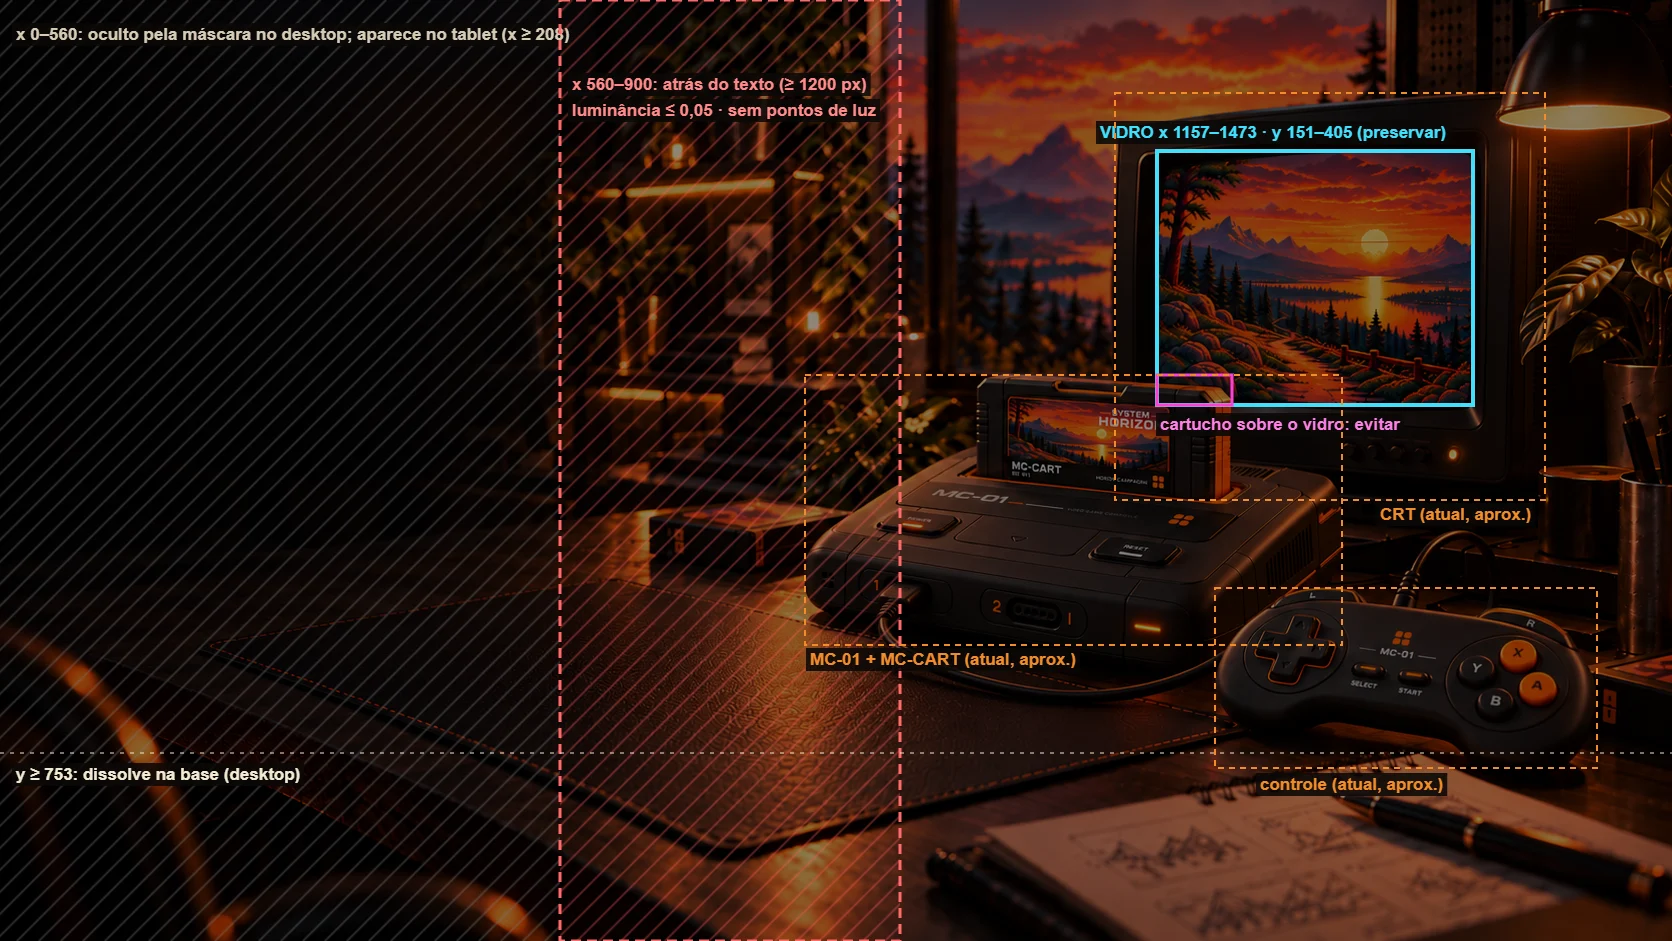
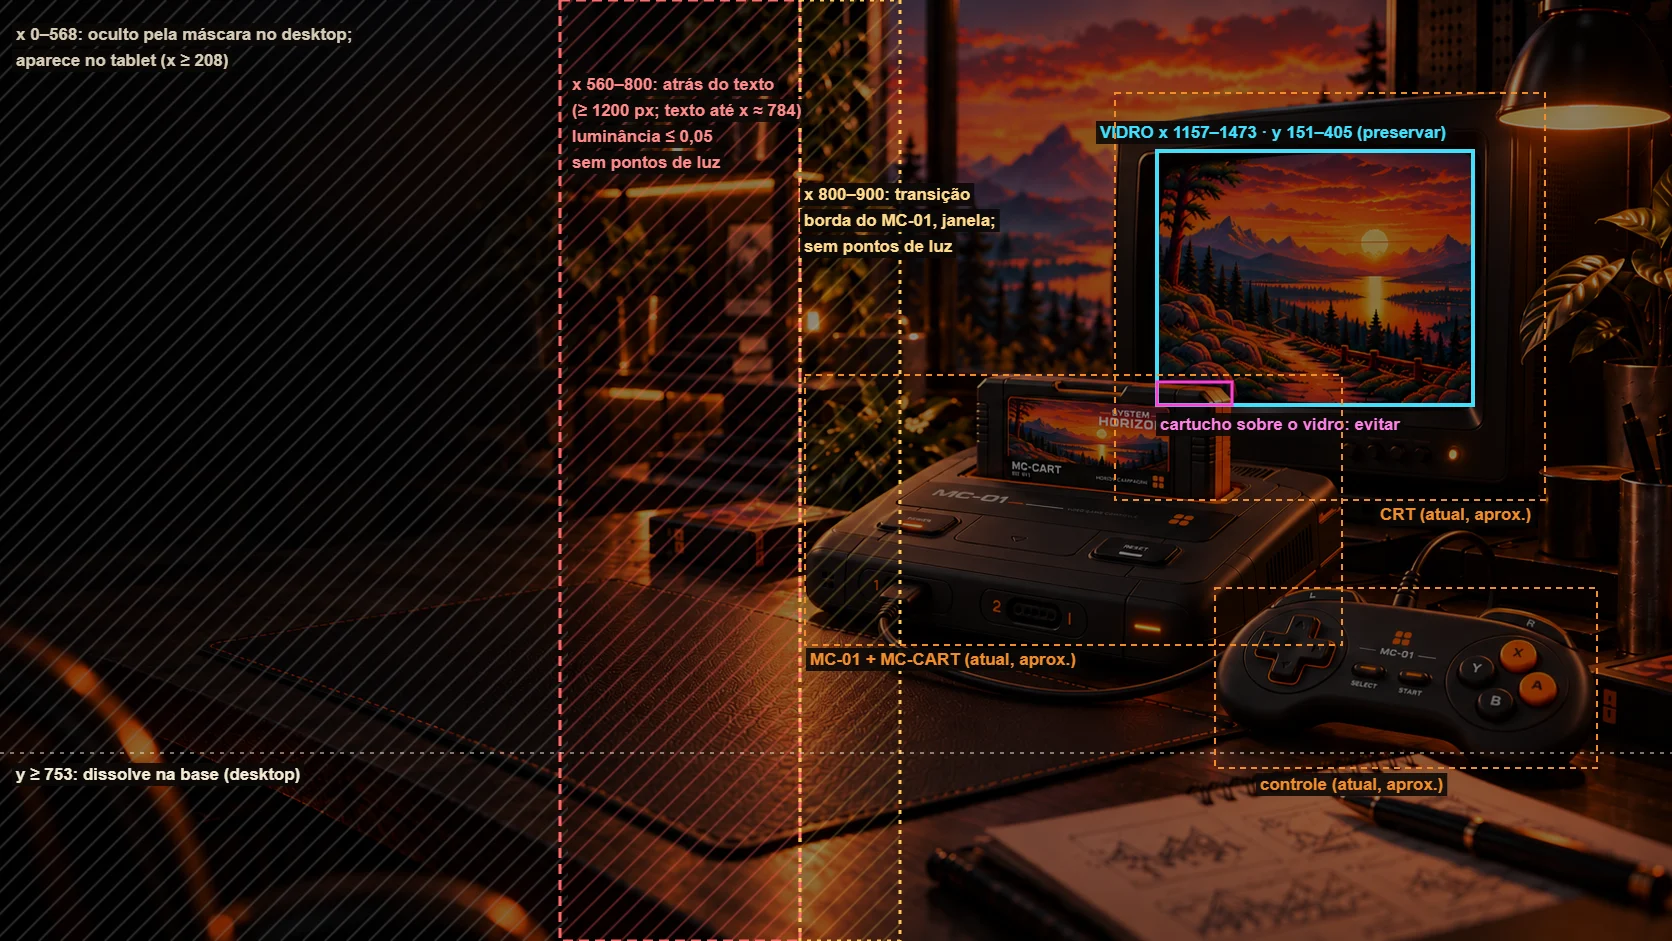
docs: address the D-079 review of the Hero image contract
- Dark zone narrowed to x 560-800 (visible text ends at x ~784); x 800-900
  is a transition that may hold the MC-01 edge and the window, so the
  contract no longer contradicts the composition. English brief updated.
- Glass aspect limited to 1.24-4:3 (the 4:3 teaser covers by height).
- Corrected numbers: right side ~6% taller, cartridge over the glass from
  y ~382, mask transparent to 568, 2x upscale figures, 1672:941 wording;
  generic mobile formula; vertical fade note; scanline metric stated.
- D-023 marked as partially superseded; roadmap performance figures.
- Deploy guard: every preload href in index.html must exist in the build.

diff --git a/docs/21-hero-refinement.md b/docs/21-hero-refinement.md
@@ -115,6 +115,8 @@ Todos medidos no build de produção, antes × depois.
 - **Problema:** com 120 linhas fixas, o período ficava em 0,9–2,3 px do dispositivo em DPR 1 e 1,25 (e em 390 até DPR 2). As linhas caíam entre os pixels e formavam faixas: batimento de 0,22–0,64 e escurecimento médio variando de 7 a 14.
 - **Correção:** faixas suaves alinhadas às 120 linhas nativas, com densidade de 120, 60, 40 ou 30 conforme a largura da tela e a densidade de pixels, para cada faixa ter ≥ 3 px do dispositivo. Engine, timings e roteiro intactos.
 - **Resultado:** batimento ≤ 0,05 (a maioria ≤ 0,014) e escurecimento uniforme (13,3–13,9) nas 16 combinações de 1440/1024/820/390 × DPR 1/1,25/2/3. O CRT do Inventory usa a mesma tela e também melhora (0,65 → ≤ 0,05), sem nenhuma mudança no Inventory.
+- **Métrica:** "batimento" é o coeficiente de variação do perfil vertical de escurecimento (faixa central da tela, com canvas e legendas ocultos), suavizado por uma gaussiana de σ = 1,5 período. Mede as faixas lentas (moiré); 0 = regular.
+- **Revisão independente:** com outra métrica (média móvel de 3 períodos, 10 larguras × DPR 1–3, Hero e Inventory), o pior caso caiu de 4,7 para 0,19. O resíduo fica perto do limiar de 3,0–3,15 px por faixa (1200 e 1280 em @1 e @2, 360 em @1 e @2) e é quase imperceptível no tamanho real. Se precisar de folga, o mínimo pode subir para ~3,5 px, com linhas mais grossas em parte do desktop.
 
 **Pixelify Sans**
 
@@ -172,21 +174,21 @@ Para quem vai produzir a arte. **A imagem atual não é substituída até a nova
 - **Objetos:** luminária no canto superior direito, plantas, porta-canetas, caderno no canto inferior direito e cadeira no canto inferior esquerdo.
 - **Ausentes:** teclado e mouse (D-067).
 
-| Elemento        | Caixa atual (aprox., 1×) | Tolerância                 |
-| --------------- | ------------------------ | -------------------------- |
-| Vidro do CRT    | x 1157–1473 · y 151–405  | ver G e K                  |
-| Gabinete do CRT | x 1115–1545 · y 93–500   | ±3% da largura da imagem   |
-| MC-01 + MC-CART | x 805–1342 · y 375–645   | ±3%                        |
-| Controle        | x 1215–1597 · y 588–768  | ±3%                        |
-| Luminária       | x 1495–1672 · y 0–130    | livre, sem invadir o vidro |
+| Elemento        | Caixa atual (aprox., 1×)                                                                 | Tolerância                 |
+| --------------- | ---------------------------------------------------------------------------------------- | -------------------------- |
+| Vidro do CRT    | x 1157–1473 · y 151–405                                                                  | ver G e K                  |
+| Gabinete do CRT | x 1115–1545 · y 93–500                                                                   | ±3% da largura da imagem   |
+| MC-01 + MC-CART | x 805–1342 · y 375–645 (topo do cartucho na lateral; sobre o vidro, a partir de y ≈ 382) | ±3%                        |
+| Controle        | x 1215–1597 · y 588–768                                                                  | ±3%                        |
+| Luminária       | x 1495–1672 · y 0–130                                                                    | livre, sem invadir o vidro |
 
 **Câmera:** na altura de quem está sentado, um pouco acima da mesa e olhando levemente para baixo. Lente normal, sem grande-angular exagerada. Equipamentos nítidos e fundo com desfoque suave.
 
 #### D. Perspectiva e proporção
 
-- **Escala real** (H2, D-077, `docs/24` §17.8): o gabinete do CRT tem ≈ 1,27× a largura do console, e o MC-CART ≈ 0,56× (`console-reference`). Na foto, o console está mais perto da câmera e pode parecer do tamanho atual. As proporções reais entre os objetos continuam as mesmas.
+- **Escala real** (alvo, a partir do H2: D-077, `docs/24` §17.8): o gabinete do CRT tem ≈ 1,27× a largura do console (proporção do layout do H2 em 1440, não uma medida física), e o MC-CART ≈ 0,56× (`console-reference`). Na foto, o console está mais perto da câmera e pode parecer do tamanho atual. As proporções reais entre os objetos continuam as mesmas.
 - **MC-01 em três quartos:** frente e topo visíveis, levemente girado, como hoje. O MC-001 fica encaixado com a etiqueta voltada para a câmera.
-- **CRT:** quase frontal, com o leve giro atual. O lado direito do vidro fica ~4% mais alto (topo 161 → 151, base 400 → 405).
+- **CRT:** quase frontal, com o leve giro atual. O lado direito do vidro fica ~6% mais alto (254 contra 239 px; topo 161 → 151, base 400 → 405).
 - **Carcaças oficiais sem deformação:** nada esticado, achatado ou com proporções inventadas.
 
 #### E. Iluminação e materiais
@@ -208,26 +210,29 @@ Para quem vai produzir a arte. **A imagem atual não é substituída até a nova
 
 No desktop (≥ 1200), o texto da Hero fica **sobre** a imagem:
 
-- **Alcance do texto:** chega a **x ≈ 830** (en em 1200; ≈ 700–750 de 1280 a 2560) e desce até y ≈ 900.
-- **Máscara:** esconde x 0–560 e dissolve x 568–1037.
+- **Alcance do texto visível:** chega a **x ≈ 784** (o resumo em en, a 1200; ≈ 690–730 de 1240 a 2560) e desce até y ≈ 880.
+- **Máscara:** transparente em x 0–568, dissolve de 568 a 1037.
 
 Zonas:
 
-- **x 560–900, altura inteira:**
+- **x 560–800, altura inteira:**
   - luminância relativa ≤ **0,05** (≈ #3f3f3f) em qualquer ponto;
   - sem pontos de luz (velas, LEDs, lâmpadas).
 
-  Com a máscara, isso garante ≥ 4,5 : 1 para o texto mais fraco (`cream-500`). Na imagem atual, as velas da estante (x ≈ 640–830) deixam o contraste no limite: 4,45 : 1 em en, de 1200 a 1239.
+  Com a máscara, isso garante ≥ 4,5 : 1 para o texto mais fraco (`cream-500`): 5,15 : 1 em x 830 no pior caso, um cinza. Sem a máscara, 0,05 daria só 3,8 : 1. Na imagem atual, as velas da estante (x ≈ 640–830) deixam o contraste no limite: 4,45 : 1 no resumo em en, de 1200 a 1219 (pré-existente, resolvido na troca, aceite M4).
+
+- **x 800–900, transição:** pode ter a borda esquerda do MC-01 (a partir de x ≈ 805), com o rim light, e o começo da janela (≈ 885), mas não pontos de luz.
 
 - **x 0–560:** escuro e com pouco detalhe. Fica oculto no desktop, mas aparece no tablet (x ≥ 208).
 - **A partir de x ≈ 900:** objetos claros e protagonismo.
+- **1200–1239:** a cena tem 1244 px e começa em −44 px, então ~59 px da esquerda da fonte ficam fora da tela. Isso cai dentro da área já oculta.
 
 #### G. CRT e tela
 
 - **Modelo:** o CRT do H2 (`crt-front.png`) em perspectiva. Sem outro modelo de TV, sem grade de ventilação lateral e sem botões diferentes.
 - **Vidro, posição:** de preferência **exatamente** na caixa x 1157–1473 · y 151–405 (316 × 254, ~1,24 : 1), com os cantos de `HERO_CRT_GLASS` e tolerância de ±2 px no 1× (±4 px no 2×).
-- **Vidro, se a identidade pedir outra proporção:** a tela do `crt-front` é mais larga (~1,35 : 1) e tem cantos mais arredondados. Nesse caso vale a identidade: a proporção pode ficar entre 1,24 e 1,36, com o remedimento de K.
-- **Nada na frente do vidro:** o topo do MC-CART fica abaixo da borda inferior do vidro. Hoje o cartucho cobre x 1157–1232 · y 375–405, o que obriga um recorte na tela do teaser.
+- **Vidro, se a identidade pedir outra proporção:** a tela do `crt-front` é mais larga (~1,33–1,38 : 1) e tem cantos mais arredondados. A proporção do vidro **na foto** pode ficar entre 1,24 e **1,333 (4 : 3)**, com o remedimento de K. Acima de 4 : 3, a tela do teaser (4 : 3, cobrindo pela altura) deixa faixas da foto nas laterais. Cobrir pela largura cortaria o HUD (y 4–18, `docs/22` §4.0) e mudaria o teaser congelado. Com o leve giro, a tela oficial fica dentro desse limite.
+- **Nada na frente do vidro:** o topo do MC-CART fica abaixo da borda inferior do vidro. Hoje o cartucho cobre x 1157–1232 · y ≈ 382–405 (o `clip-path` recorta em 90,9% da altura), o que obriga um recorte na tela do teaser.
 - **Conteúdo da tela:** o cenário do SYSTEM HORIZON (pôr do sol, montanhas, lago, trilha), em pixel art e sem texto, HUD ou personagem. Ele aparece antes de o teaser carregar e quando o teaser falha.
 - **Reflexos:** o teaser cobre o vidro inteiro, então reflexos e brilho ficam no aro e no gabinete, nunca dentro do vidro.
 
@@ -259,22 +264,23 @@ Textos pequenos demais para ler no tamanho final podem virar marcas lisas, nunca
 | 768–1023  | 3:2, x 208–1620                        | x 377–1450 · y 169–734     | MC-01, CRT, controle                                  |
 | < 768     | quadrado x 628–1569 (derivado próprio) | x 741–1456 · y 169–734     | MC-01, vidro do CRT, controle (pode cortar à direita) |
 
-Se os equipamentos saírem da tolerância de C, o recorte `background-mobile-*` (x 628–1569) e as posições `--pos` são revistos na substituição.
+- **Topo do vidro:** em y 151, fica dentro da dissolução vertical no tablet, no mobile e em 1024–1199, onde a área opaca começa em y 169 ou 207. É o comportamento atual.
+- **Equipamentos fora da tolerância de C:** o recorte `background-mobile-*` (x 628–1569) e as posições `--pos` são revistos na substituição.
 
 #### K. Coordenadas que dependem da imagem
 
 Se o vidro ficar na caixa atual, dentro da tolerância de G, **nada é remedido**: só os quatro cantos são conferidos. Se mudar, estes valores precisam ser remedidos (fonte W × H = 1672 × 941; vidro de x0 a x1 e de y0 a y1):
 
-| Valor                                               | Onde                     | Fórmula                                                                                  |
-| --------------------------------------------------- | ------------------------ | ---------------------------------------------------------------------------------------- |
-| `HERO_CRT_GLASS` (4 cantos) e o comentário da caixa | `hero-scene.assets.ts`   | cantos do vidro em frações da caixa (x0–x1, y0–y1)                                       |
-| `top` / `height` da `.crt`                          | `hero-scene.scss`        | y0 / H · (y1 − y0) / H (hoje 16,05% / 26,99%)                                            |
-| `--sx` / `--sw` (≥ 768)                             | `hero-scene.scss`        | x0 / W · (x1 − x0) / W (hoje 69,2% / 18,9%)                                              |
-| `--sx` / `--sw` (mobile)                            | `hero-scene.scss`        | (x0 − 628) / 941 · (x1 − x0) / 941 (hoje 56,22% / 33,58%)                                |
-| `clip-path` da `.crt`                               | `hero-scene.scss`        | área do vidro coberta pelo cartucho; sem sobreposição, o recorte sai                     |
-| `--screen-radius`                                   | `hero-scene.scss`        | raio dos cantos do vidro em % da caixa (hoje 4% / 5%)                                    |
-| Área segura do teaser                               | `docs/22` §4.0           | proporção do vidro: em 1,24 : 1 cortam-se ~6 px de cada lado; perto de 4 : 3, quase nada |
-| Recorte mobile                                      | `HERO_BACKGROUND.mobile` | x do quadrado que contém MC-01, vidro e controle                                         |
+| Valor                                               | Onde                     | Fórmula                                                                                                   |
+| --------------------------------------------------- | ------------------------ | --------------------------------------------------------------------------------------------------------- |
+| `HERO_CRT_GLASS` (4 cantos) e o comentário da caixa | `hero-scene.assets.ts`   | cantos do vidro em frações da caixa (x0–x1, y0–y1)                                                        |
+| `top` / `height` da `.crt`                          | `hero-scene.scss`        | y0 / H · (y1 − y0) / H (hoje 16,05% / 26,99%)                                                             |
+| `--sx` / `--sw` (≥ 768)                             | `hero-scene.scss`        | x0 / W · (x1 − x0) / W (hoje 69,2% / 18,9%)                                                               |
+| `--sx` / `--sw` (mobile)                            | `hero-scene.scss`        | (x0 − m0) / (m1 − m0) · (x1 − x0) / (m1 − m0), recorte mobile de m0 a m1 (hoje 628–1569: 56,22% / 33,58%) |
+| `clip-path` da `.crt`                               | `hero-scene.scss`        | área do vidro coberta pelo cartucho; sem sobreposição, o recorte sai                                      |
+| `--screen-radius`                                   | `hero-scene.scss`        | raio dos cantos do vidro em % da caixa (hoje 4% / 5%)                                                     |
+| Área segura do teaser                               | `docs/22` §4.0           | proporção do vidro (1,24 a 1,333): em 1,24 : 1 cortam-se ~6 px de cada lado; em 4 : 3, nada               |
+| Recorte mobile                                      | `HERO_BACKGROUND.mobile` | x do quadrado que contém MC-01, vidro e controle                                                          |
 
 A engine, o roteiro, os timings e a câmera do teaser não mudam em nenhum caso.
 
@@ -288,7 +294,7 @@ Gerados a partir do mestre:
 | `background-{2560,3344}.webp`         | não existem           | novos 2×: ~260 / ~380 KB, orçamento a validar pelo LCP |
 | `background-mobile-{480,800}.webp`    | 42 / 86 KB            | regerados, mais um novo `1200` para 390 @ 3×           |
 
-- **Por que os 2×:** hoje, em telas 2×, a imagem é ampliada até 1,76×.
+- **Por que os 2×:** hoje, em telas 2×, a imagem é ampliada: 1,76× em 1440 @ 2×, 2,16× em 1920 @ 2× e 2,9× em 2560 @ 2×. O 3344 resolve até ~1672 px de largura de cena em 2×. Acima disso continua ampliado, mas bem menos.
 - **Código:** atualizar `HERO_BACKGROUND` e os `sizes`.
 - **Mestre:** substitui `design/source/hero/hero-background.png`. A versão atual vai para o histórico com o sufixo `-v1`.
 
@@ -304,7 +310,7 @@ Gerados a partir do mestre:
 
 #### N. Briefing para o gerador (en)
 
-> Cinematic photo-real still of a dark wooden desk at sunset, 3344 × 1882 px (16:9, exactly 1672:941).
+> Cinematic photo-real still of a dark wooden desk at sunset, 3344 × 1882 px (exactly 1672:941, close to 16:9).
 >
 > **Composition (keep the existing one).** A window with mountains at the back-center. A compact CRT TV on the right. The MC-01 console in three-quarter view, in front of the TV and to its left, with the MC-001 cartridge inserted and its label facing the camera. A wired controller at the front right, connected to the console. A warm desk lamp at the top right. Plants and a pen cup. A sketchbook at the bottom right (sketches only, no lettering). The edge of a chair at the bottom left.
 >
@@ -317,11 +323,11 @@ Gerados a partir do mestre:
 >
 > Real-world scale: the CRT cabinet is about 1.27× the console width; the cartridge is about 0.56× the console width.
 >
-> **CRT and screen.** The CRT is nearly frontal. Its glass sits at x 2314–2946, y 302–810, with the right side slightly taller, and nothing overlaps it. The screen shows the SYSTEM HORIZON pixel-art sunset landscape (lake, mountains, trail) with no text.
+> **CRT and screen.** The CRT is nearly frontal. It is the official model only: no side ventilation grille, no other knobs. Its glass sits at x 2314–2946, y 302–810, with the right side slightly taller (about 6%), and its aspect ratio stays between 1.24:1 and 4:3. Nothing overlaps it: the top of the cartridge stays below the bottom edge of the glass. Keep reflections and glow on the bezel and cabinet, not inside the glass. The screen shows the SYSTEM HORIZON pixel-art sunset landscape (lake, mountains, trail) with no text.
 >
-> **Light and materials.** Warm sunset and lamp light, orange rim light, matte graphite plastic, deep shadows. No neon.
+> **Light and materials.** Warm sunset and lamp light, orange rim light, matte graphite plastic, deep shadows. Orange POWER LED and white RESET LED on the console. No neon.
 >
-> **Dark left side.** The left half (x < 1800) must stay very dark and low-detail, with no light sources.
+> **Dark left side.** The band x 1120–1600 (full height) must stay very dark (relative luminance ≤ 0.05) with no light sources; x < 1120 dark and low-detail. Between x 1600 and 1800 only the console's left edge, its rim light and the start of the window may appear, with no point lights.
 >
 > **Text.** The only legible text allowed:
 >

diff --git a/docs/10-decisions.md b/docs/10-decisions.md
@@ -233,6 +233,8 @@ Status possíveis: `Aceita` · `Proposta` · `Substituída` · `Rejeitada`
 
 ## D-023 — Fontes self-hosted empacotadas pelo build
 
+> **Parcialmente substituída (D-079):** as fontes saem do build sem hash (`outputHashing: "bundles"`) para o preload da Pixelify Sans no `index.html`. O cache longo por hash deixa de valer para elas, um custo desprezível no GitHub Pages (~10 min de cache para todos os arquivos).
+
 - **Data:** 2026-10-08
 - **Decisão:** os WOFF2 (subset latin, variáveis) ficam em `src/styles/fonts/` e são referenciados por `url()` relativo no Sass; o build do Angular os copia para `media/` com hash no nome. Substitui a ideia anterior de `public/fonts/` (`docs/06`).
 - **Contexto:** o site roda sob `base-href` variável (`/` local, `/modo-campanha/` no Pages, possivelmente `/` com domínio próprio).
@@ -950,4 +952,12 @@ Status possíveis: `Aceita` · `Proposta` · `Substituída` · `Rejeitada`
   - Manter as 120 linhas com perfil suave, mas sem regra de densidade: rejeitado, porque abaixo de 2 px do dispositivo o padrão continua formando faixas.
   - Preload pelo nome com hash: rejeitado, porque quebraria em silêncio a cada mudança do build.
   - Preload também da IBM Plex Sans: sem ganho, porque ela já chega antes do primeiro render.
+- **Custo:** as fontes perdem o cache longo por hash. É desprezível no GitHub Pages (~10 min de cache), e a guarda do deploy falha se o arquivo do preload não existir no build (D-023 marcada como parcialmente substituída).
+- **REVIEWER:** aprovado com ressalvas. As ressalvas do contrato foram corrigidas em `docs/21` §8.2:
+  - zona escura em x 560–800, sem conflito com o MC-01 e a janela;
+  - vidro limitado a 4 : 3;
+  - números revistos;
+  - briefing completo.
+
+  O resíduo leve das scanlines perto de 3 px por faixa fica registrado em §8.1. O botão de pausa ainda pode anunciar "Pausar" ~0,9 s antes do movimento em rede lenta, enquanto o chunk e a arte carregam; a correção completa exigiria um sinal de "pronto" da tela do teaser congelado.
 - **Status:** etapas 1 e 2 concluídas na branch `feat/hero-refinement`. A substituição da imagem aguarda a nova arte do Eduardo. Sem merge e sem deploy.
